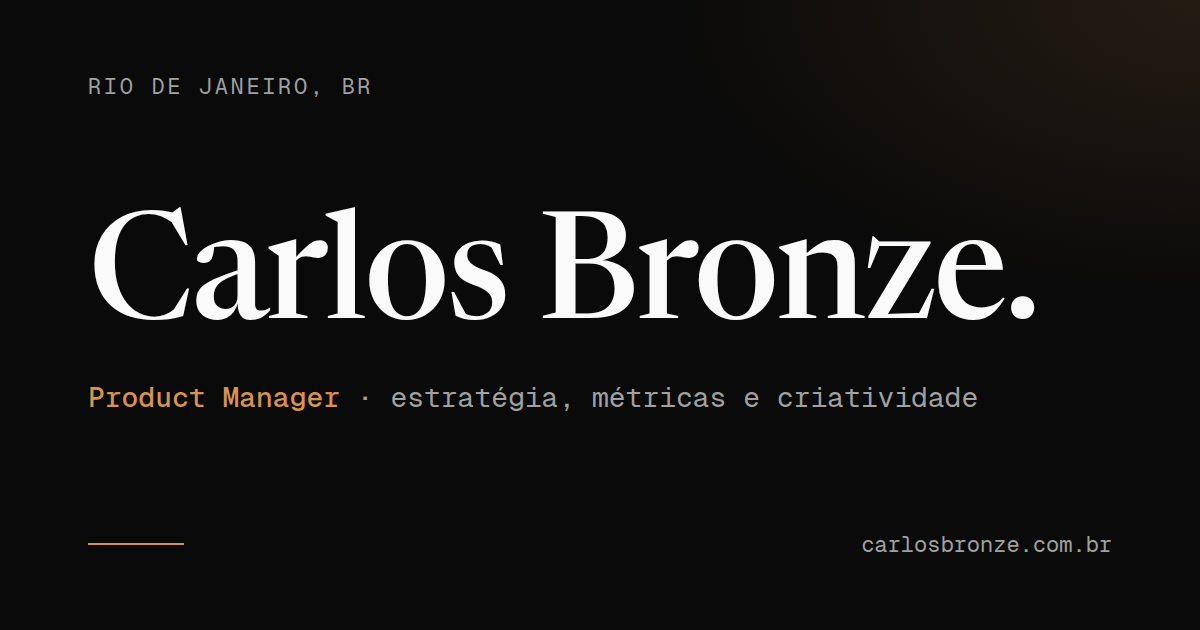
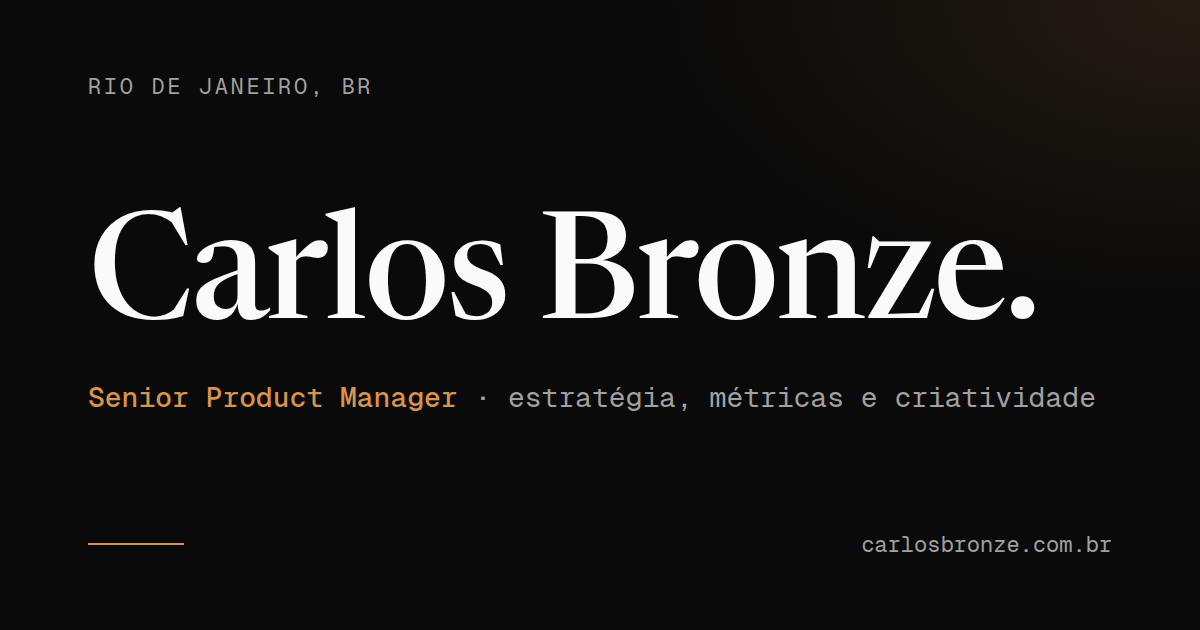
use Senior Product Manager everywhere, to match LinkedIn and GitHub

Changed region(s): [[0.0617, 0.6032, 0.925, 0.6635]]

diff --git a/src/pages/llms.txt.ts b/src/pages/llms.txt.ts
@@ -15,7 +15,7 @@ export const GET: APIRoute = async ({ site }) => {
 
 > ${descriptions.en}
 
-Carlos Bronze is a product manager in Rio de Janeiro, Brazil, with almost 20 years in digital products and brands, from agencies to startups. He started coding in 1999, building websites for online gaming communities, and studied industrial design. In agency strategy he learned that value is perception; at MySparkle he uses gamification as a lever for activation, retention and LTV.
+Carlos Bronze is a senior product manager in Rio de Janeiro, Brazil, with almost 20 years in digital products and brands, from agencies to startups. He started coding in 1999, building websites for online gaming communities, and studied industrial design. In agency strategy he learned that value is perception; at MySparkle he uses gamification as a lever for activation, retention and LTV.
 
 He focuses on product strategy, metrics that connect user behavior to business outcomes, the story and perception a product creates, and gamification. The site is bilingual (Portuguese and English) on the same URLs.
 

diff --git a/src/lib/seo.ts b/src/lib/seo.ts
@@ -10,8 +10,8 @@ export const profiles = {
 }
 
 export const descriptions = {
-  pt: 'Carlos Bronze, Product Manager no Rio de Janeiro. Conecto estratégia, métricas e criatividade para construir produtos que movem o negócio.',
-  en: 'Carlos Bronze, product manager based in Rio de Janeiro. I connect strategy, metrics and creativity to build products that move the business.',
+  pt: 'Carlos Bronze, Senior Product Manager no Rio de Janeiro. Conecto estratégia, métricas e criatividade para construir produtos que movem o negócio.',
+  en: 'Carlos Bronze, senior product manager based in Rio de Janeiro. I connect strategy, metrics and creativity to build products that move the business.',
 }
 
 export type JsonLd = Record<string, unknown>
@@ -36,7 +36,7 @@ export function baseGraph(site: URL): JsonLd[] {
       '@id': personId(site),
       name: SITE_NAME,
       url,
-      jobTitle: 'Product Manager',
+      jobTitle: 'Senior Product Manager',
       description: descriptions.en,
       address: {
         '@type': 'PostalAddress',
